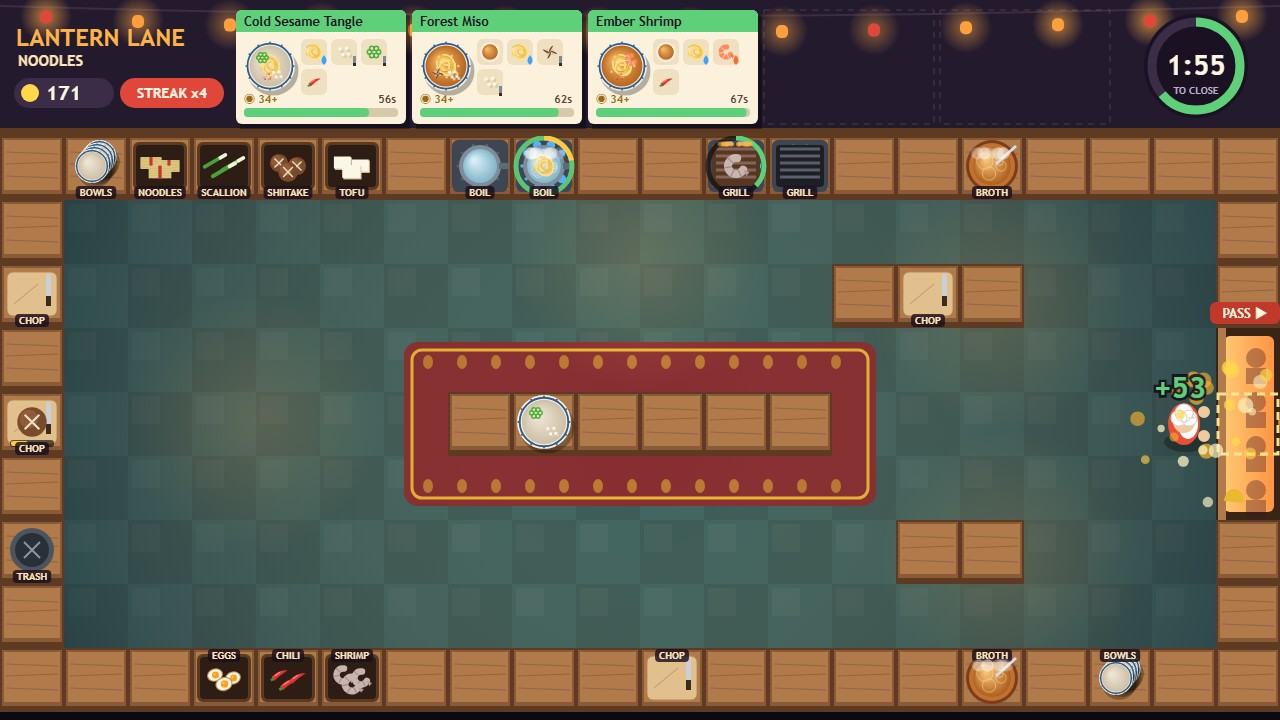
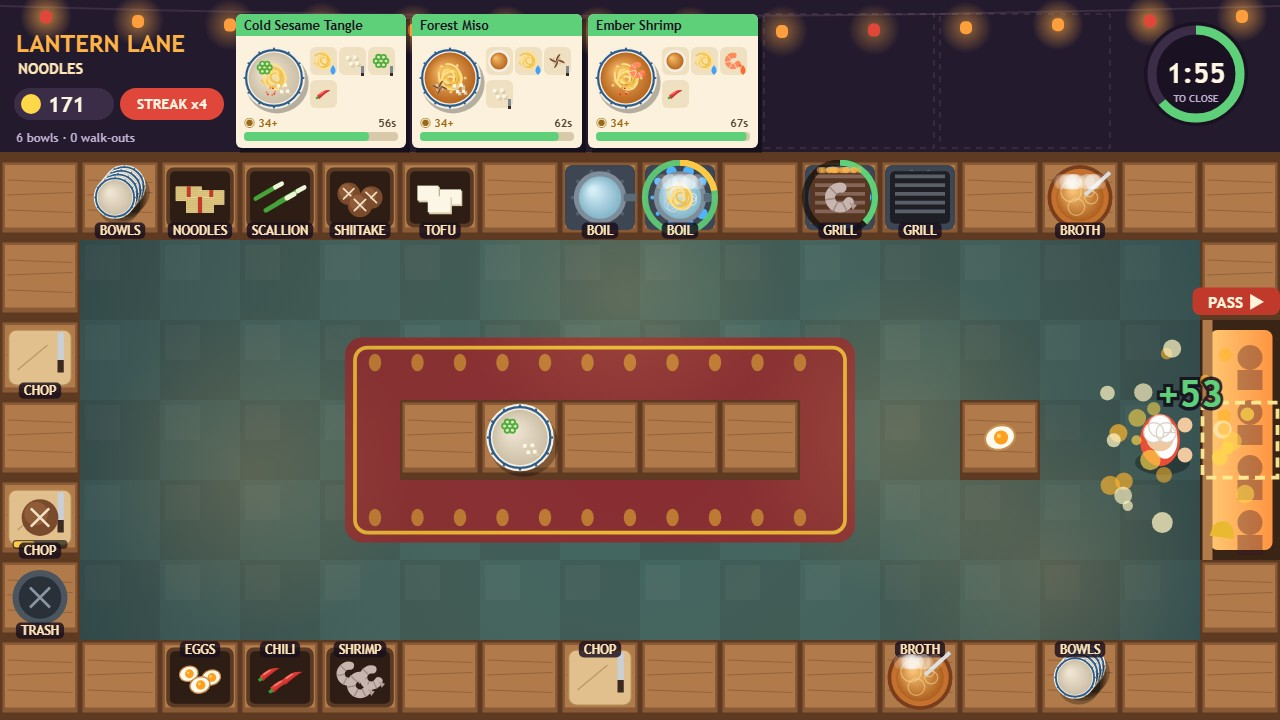
Bigger kitchen on screen (1.25x), taller order tickets, staged counters in the cover

diff --git a/game/src/hud.js b/game/src/hud.js
@@ -1,14 +1,14 @@
 // The order board and the shift clock: paper tickets on a rail, each with its bowl, its parts and
 // how they are prepped, and a patience bar; the coin purse, the streak and a ring clock that
 // reddens and ticks as closing time comes.
-import { COLORS, VIEW, GRID } from './config.js';
+import { COLORS, VIEW, STAGE } from './config.js';
 import { drawBowl, drawIngredientIcon } from './draw-food.js';
 import { INGREDIENTS, PREP_BOIL, PREP_CHOP, PREP_GRILL } from './recipes.js';
 import { isRush, payFor } from './orders.js';
 import { timeLeft } from './world.js';
 import { itemLabel } from './items.js';
 
-const TICKET = { x: 236, y: 10, w: 170, h: 114, gap: 6 };
+const TICKET = { x: 236, y: 14, w: 170, h: 134, gap: 6 };
 
 function roundRect(ctx, x, y, w, h, r, fill) {
   ctx.beginPath();
@@ -75,16 +75,16 @@ function drawTicket(ctx, world, order, x, y, time) {
   roundRect(ctx, x, y, TICKET.w, 22, 6, band);
   ctx.fillRect(x, y + 14, TICKET.w, 8);
   text(ctx, order.recipe.name, x + 8, y + 16, 13, '#1d1424', 800);
-  drawBowl(ctx, order.recipe.parts, x + 34, y + 56, 25);
+  drawBowl(ctx, order.recipe.parts, x + 38, y + 64, 31);
   const parts = order.recipe.parts;
   parts.forEach((id, i) => {
     const col = i % 3;
     const row = Math.floor(i / 3);
-    const ix = x + 78 + col * 30;
-    const iy = y + 42 + row * 30;
-    roundRect(ctx, ix - 13, iy - 13, 26, 26, 6, '#efe0c2');
-    drawIngredientIcon(ctx, id, ix, iy, 10);
-    prepMark(ctx, INGREDIENTS[id].prep, ix + 10, iy + 9);
+    const ix = x + 87 + col * 29;
+    const iy = y + 47 + row * 33;
+    roundRect(ctx, ix - 13, iy - 14, 27, 28, 6, '#efe0c2');
+    drawIngredientIcon(ctx, id, ix, iy, 11);
+    prepMark(ctx, INGREDIENTS[id].prep, ix + 10, iy + 10);
   });
   roundRect(ctx, x + 8, y + TICKET.h - 16, TICKET.w - 16, 9, 4, '#d8c9ab');
   roundRect(ctx, x + 8, y + TICKET.h - 16, (TICKET.w - 16) * frac, 9, 4, band);
@@ -97,7 +97,7 @@ function drawTicket(ctx, world, order, x, y, time) {
 function drawClock(ctx, world, time) {
   const left = timeLeft(world);
   const cx = 1196;
-  const cy = 66;
+  const cy = 74;
   const frac = left / world.length;
   const late = left <= 30;
   const pulse = late ? 1 + Math.max(0, Math.sin(time * 6.3)) * 0.06 : 1;
@@ -128,22 +128,23 @@ function drawClock(ctx, world, time) {
 /** The whole top band: lanterns, title, purse, tickets and clock. */
 export function drawHud(ctx, world, time) {
   ctx.fillStyle = COLORS.header;
-  ctx.fillRect(0, 0, VIEW.width, GRID.top);
+  ctx.fillRect(0, 0, VIEW.width, STAGE.top);
   ctx.fillStyle = '#5e3a22';
-  ctx.fillRect(0, GRID.top - 8, VIEW.width, 8);
+  ctx.fillRect(0, STAGE.top - 8, VIEW.width, 8);
   lanternString(ctx, time);
-  text(ctx, 'LANTERN LANE', 16, 46, 24, '#ffb347', 900);
-  text(ctx, 'NOODLES', 18, 66, 15, '#ffe6b8', 800);
-  roundRect(ctx, 14, 78, 100, 30, 15, '#3b2c47');
+  text(ctx, 'LANTERN LANE', 16, 52, 24, '#ffb347', 900);
+  text(ctx, 'NOODLES', 18, 74, 15, '#ffe6b8', 800);
+  roundRect(ctx, 14, 88, 100, 32, 16, '#3b2c47');
   ctx.fillStyle = '#ffd84a';
   ctx.beginPath();
-  ctx.arc(30, 93, 9, 0, Math.PI * 2);
+  ctx.arc(31, 104, 10, 0, Math.PI * 2);
   ctx.fill();
-  text(ctx, `${world.coins}`, 46, 100, 20, '#fff6e4', 900);
+  text(ctx, `${world.coins}`, 48, 112, 21, '#fff6e4', 900);
   if (world.combo > 1) {
-    roundRect(ctx, 120, 78, 104, 30, 15, '#e0473a');
-    text(ctx, `STREAK x${world.combo}`, 172, 98, 14, '#fff6e4', 900, 'center');
-  } else text(ctx, `${world.served} served`, 124, 98, 13, '#bfaecf', 700);
+    roundRect(ctx, 120, 88, 104, 32, 16, '#e0473a');
+    text(ctx, `STREAK x${world.combo}`, 172, 109, 14, '#fff6e4', 900, 'center');
+  } else text(ctx, `${world.served} served`, 124, 109, 13, '#bfaecf', 700);
+  text(ctx, `${world.served} bowls · ${world.missed} walk-outs`, 16, 142, 12, '#bfaecf', 700);
   for (let i = 0; i < 5; i += 1) {
     const x = TICKET.x + i * (TICKET.w + TICKET.gap);
     if (!world.orders[i]) {
@@ -157,20 +158,20 @@ export function drawHud(ctx, world, time) {
   }
   drawClock(ctx, world, time);
   if (isRush(world.elapsed)) {
-    roundRect(ctx, 1146, 116, 100, 18, 9, COLORS.bad);
-    text(ctx, '🔥 RUSH', 1196, 129, 12, '#fff', 900, 'center');
+    roundRect(ctx, 1146, 132, 100, 20, 10, COLORS.bad);
+    text(ctx, 'RUSH HOUR', 1196, 146, 12, '#fff', 900, 'center');
   }
 }
 
 /** A tag under the chef's feet naming what it carries, and a hint line along the bottom. */
 export function drawHoldingTag(ctx, world) {
   const hold = world.chef.hold;
-  ctx.font = '700 12px "Trebuchet MS", sans-serif';
-  const msg = hold ? `Holding: ${itemLabel(hold)}` : 'WASD move · E pick up / put down · SPACE chop · click a counter to walk & use';
-  const w = ctx.measureText(msg).width + 20;
-  const x = hold ? world.chef.x : 640;
-  const y = hold ? world.chef.y + 40 : GRID.top + 9 * 64 - 2;
   if (!hold) return;
+  ctx.font = '700 12px "Trebuchet MS", sans-serif';
+  const msg = `Holding: ${itemLabel(hold)}`;
+  const w = ctx.measureText(msg).width + 20;
+  const x = world.chef.x;
+  const y = world.chef.y + 40;
   roundRect(ctx, x - w / 2, y - 13, w, 19, 9, 'rgba(20,12,28,0.78)');
   ctx.fillStyle = '#ffe6b8';
   ctx.textAlign = 'center';

diff --git a/game/src/shots.js b/game/src/shots.js
@@ -59,29 +59,30 @@ function rushScene(world) {
   order(world, 'ember');
   wait(world, 24);
   order(world, 'moon');
-  use(world, 1, 0); use(world, 15, 0); use(world, 9, 4);
+  use(world, 1, 0); use(world, 13, 0); use(world, 6, 3);
   use(world, 2, 0); use(world, 7, 0);
-  use(world, 5, 8); use(world, 11, 0);
+  use(world, 4, 6); use(world, 10, 0);
   wait(world, 5.2);
-  use(world, 7, 0); use(world, 9, 4);
-  use(world, 11, 0); use(world, 9, 4);
+  use(world, 7, 0); use(world, 6, 3);
+  use(world, 10, 0); use(world, 6, 3);
   order(world, 'lantern');
-  use(world, 17, 8); use(world, 15, 8); use(world, 10, 4);
-  use(world, 3, 0); use(world, 0, 2); chopAll(world, 0, 2, 5); use(world, 0, 2); use(world, 10, 4);
+  use(world, 13, 6); use(world, 11, 6); use(world, 7, 3);
+  use(world, 3, 0); use(world, 0, 2); chopAll(world, 0, 2, 5); use(world, 0, 2); use(world, 7, 3);
   use(world, 2, 0); use(world, 7, 0);
   wait(world, 6);
-  use(world, 7, 0); use(world, 10, 4);
-  use(world, 5, 8); use(world, 12, 0);
+  use(world, 7, 0); use(world, 7, 3);
+  use(world, 4, 6); use(world, 11, 0);
   order(world, 'forest');
   wait(world, 5);
   use(world, 2, 0); use(world, 8, 0);
   use(world, 4, 0); use(world, 0, 4); chopAll(world, 0, 4, 3);
-  use(world, 5, 0); use(world, 10, 8); chopAll(world, 10, 8, 5); use(world, 10, 8); use(world, 11, 4);
-  use(world, 3, 8); use(world, 12, 4);
+  use(world, 5, 0); use(world, 7, 6); chopAll(world, 7, 6, 5); use(world, 7, 6); use(world, 8, 3);
+  use(world, 2, 6); use(world, 9, 3);
+  use(world, 13, 6); use(world, 12, 3);
   order(world, 'cold');
   wait(world, 3.2);
-  use(world, 4, 8);
-  standBy(world, 9, 4);
+  use(world, 3, 6);
+  standBy(world, 6, 3);
   world.chef.y += 6;
   world.chef.walk = 1.2;
 }
@@ -96,22 +97,23 @@ function serveScene(world) {
   order(world, 'cold');
   wait(world, 6);
   order(world, 'forest');
-  use(world, 1, 0); use(world, 8, 4);
+  use(world, 1, 0); use(world, 6, 3);
   use(world, 2, 0); use(world, 7, 0);
-  use(world, 5, 0); use(world, 14, 2); chopAll(world, 14, 2, 5); use(world, 14, 2); use(world, 8, 4);
-  use(world, 3, 0); use(world, 0, 2); chopAll(world, 0, 2, 5); use(world, 0, 2); use(world, 8, 4);
-  use(world, 1, 0); use(world, 15, 0); use(world, 10, 4);
+  use(world, 5, 0); use(world, 7, 6); chopAll(world, 7, 6, 5); use(world, 7, 6); use(world, 6, 3);
+  use(world, 3, 0); use(world, 0, 2); chopAll(world, 0, 2, 5); use(world, 0, 2); use(world, 6, 3);
+  use(world, 1, 0); use(world, 13, 0); use(world, 8, 3);
   use(world, 2, 0); use(world, 8, 0);
   wait(world, 5.2);
-  use(world, 7, 0); use(world, 10, 4);
-  use(world, 3, 0); use(world, 0, 2); chopAll(world, 0, 2, 5); use(world, 0, 2); use(world, 10, 4);
+  use(world, 7, 0); use(world, 8, 3);
+  use(world, 3, 0); use(world, 0, 2); chopAll(world, 0, 2, 5); use(world, 0, 2); use(world, 8, 3);
   use(world, 4, 0); use(world, 0, 4); chopAll(world, 0, 4, 2);
-  use(world, 5, 8); use(world, 11, 0);
+  use(world, 4, 6); use(world, 10, 0);
+  use(world, 2, 6); use(world, 12, 3);
   order(world, 'ember');
   wait(world, 1.5);
-  use(world, 10, 4);
+  use(world, 8, 3);
   world.events.length = 0;
-  use(world, 19, 4);
+  use(world, 15, 3);
 }
 
 /** A whole shift played out to the shutters for the tally screen. */
@@ -122,7 +124,7 @@ function endScene(world) {
     order(world, id);
     wait(world, 6);
     world.chef.hold = { kind: 'bowl', parts: [...recipeById(id).parts] };
-    use(world, 19, 4);
+    use(world, 15, 3);
   }
   const earned = world.coins;
   world.orders = [];

diff --git a/game/src/draw-kitchen.js b/game/src/draw-kitchen.js
@@ -37,15 +37,15 @@ export function drawFloor(ctx, time) {
       ctx.fillRect(x + 4, y + 4, TILE / 2 - 4, TILE / 2 - 4);
     }
   }
-  drawRug(ctx, 6 * TILE + 20, GRID.top + 3 * TILE + 14, 8 * TILE - 40, 3 * TILE - 28);
-  for (const [px, py] of [[250, 420], [640, 260], [1010, 560], [1000, 300]]) {
+  drawRug(ctx, 4 * TILE + 20, GRID.top + 2 * TILE + 14, 7 * TILE - 40, 3 * TILE - 28);
+  for (const [px, py] of [[200, 250], [500, 110], [840, 330], [720, 220]]) {
     const pool = ctx.createRadialGradient(px, py, 4, px, py, 130);
     pool.addColorStop(0, 'rgba(255,190,110,0.16)');
     pool.addColorStop(1, 'rgba(255,190,110,0)');
     ctx.fillStyle = pool;
     ctx.fillRect(px - 130, py - 130, 260, 260);
   }
-  const glow = ctx.createRadialGradient(640, GRID.top + 300, 60, 640, GRID.top + 300, 700);
+  const glow = ctx.createRadialGradient(512, GRID.top + 224, 60, 512, GRID.top + 224, 600);
   glow.addColorStop(0, `rgba(255,170,80,${0.1 + Math.sin(time * 1.3) * 0.015})`);
   glow.addColorStop(1, 'rgba(10,5,20,0.35)');
   ctx.fillStyle = glow;
@@ -229,8 +229,8 @@ function drawTrash(ctx, cx, cy) {
 
 /** The serving window on the right wall: a lit hatch with a bell and the night street beyond. */
 export function drawHatch(ctx, time) {
-  const x = 19 * TILE;
-  const y = GRID.top + 3 * TILE;
+  const x = (GRID.cols - 1) * TILE;
+  const y = GRID.top + 2 * TILE;
   const h = TILE * 3;
   rect(ctx, x, y, TILE, h, '#3a2416');
   const street = ctx.createLinearGradient(x, y, x + TILE, y);

diff --git a/game/src/render.js b/game/src/render.js
@@ -1,5 +1,5 @@
 // Draws one frame: the stall, the chef, the effects, the order board and whichever screen is up.
-import { VIEW } from './config.js';
+import { VIEW, STAGE } from './config.js';
 import { drawFloor, drawStations, drawChef } from './draw-kitchen.js';
 import { drawHud, drawHoldingTag } from './hud.js';
 import { drawFx } from './fx.js';
@@ -19,6 +19,11 @@ export function fitView(canvas, view) {
   view.scale = Math.min(w / VIEW.width, h / VIEW.height);
   view.offsetX = (w - VIEW.width * view.scale) / 2;
   view.offsetY = (h - VIEW.height * view.scale) / 2;
+}
+
+/** A point on the 1280x720 stage to kitchen world coordinates. */
+export function screenToWorld(x, y) {
+  return { x: x / STAGE.scale, y: (y - STAGE.top) / STAGE.scale };
 }
 
 function drawBanner(ctx, banner) {
@@ -51,12 +56,16 @@ export function renderFrame(ctx, canvas, view, world, fx, time, paused) {
   ctx.beginPath();
   ctx.rect(0, 0, VIEW.width, VIEW.height);
   ctx.clip();
+  ctx.save();
+  ctx.translate(0, STAGE.top);
+  ctx.scale(STAGE.scale, STAGE.scale);
   drawFloor(ctx, time);
   const target = world.screen === SCREEN_PLAY ? stationInReach(world) : null;
   drawStations(ctx, world, time, target);
   drawChef(ctx, world.chef, time);
   drawHoldingTag(ctx, world);
   drawFx(ctx, fx);
+  ctx.restore();
   drawHud(ctx, world, time);
   if (fx.flash > 0) {
     ctx.fillStyle = `rgba(255,240,180,${fx.flash * 0.5})`;

diff --git a/game/src/layout.js b/game/src/layout.js
@@ -13,26 +13,25 @@ const PLAN = [
   [5, 0, 'bin', 'tofu'],
   [7, 0, 'pot'],
   [8, 0, 'pot'],
+  [10, 0, 'grill'],
   [11, 0, 'grill'],
-  [12, 0, 'grill'],
-  [15, 0, 'broth'],
+  [13, 0, 'broth'],
   [0, 2, 'board'],
   [0, 4, 'board'],
-  [0, 6, 'trash'],
-  [3, 8, 'bin', 'egg'],
-  [4, 8, 'bin', 'chili'],
-  [5, 8, 'bin', 'shrimp'],
-  [10, 8, 'board'],
-  [14, 2, 'board'],
-  [15, 8, 'broth'],
-  [17, 8, 'bowls'],
-  [19, 3, 'hatch'],
-  [19, 4, 'hatch'],
-  [19, 5, 'hatch'],
+  [0, 5, 'trash'],
+  [2, 6, 'bin', 'egg'],
+  [3, 6, 'bin', 'chili'],
+  [4, 6, 'bin', 'shrimp'],
+  [7, 6, 'board'],
+  [11, 6, 'broth'],
+  [13, 6, 'bowls'],
+  [15, 2, 'hatch'],
+  [15, 3, 'hatch'],
+  [15, 4, 'hatch'],
 ];
 
-/** The plating island in the middle of the floor and the prep island nearer the pass: counters you walk around. */
-export const ISLANDS = [{ row: 4, from: 7, to: 12 }, { row: 2, from: 13, to: 15 }, { row: 6, from: 14, to: 15 }];
+/** The plating island in the middle of the floor and a staging block nearer the pass: counters you walk around. */
+export const ISLANDS = [{ row: 3, from: 5, to: 9 }, { row: 3, from: 12, to: 12 }];
 
 function isBorder(col, row) {
   return row === 0 || row === GRID.rows - 1 || col === 0 || col === GRID.cols - 1;

diff --git a/game/src/main.js b/game/src/main.js
@@ -4,7 +4,7 @@
 import { createInput } from './input.js';
 import { createWorld, startShift, stepWorld, timeLeft, SCREEN_END, SCREEN_PLAY, SCREEN_TITLE } from './world.js';
 import { createFx, fxForEvent, tickFx, ambientFx } from './fx.js';
-import { renderFrame, fitView } from './render.js';
+import { renderFrame, fitView, screenToWorld } from './render.js';
 import { playEvent, sfx, toggleMute } from './audio.js';
 import { buildShot } from './shots.js';
 import { tileCenter, tileOf } from './layout.js';
@@ -65,7 +65,8 @@ function runGame() {
       if (controls.pause) paused = !paused;
       if (!paused) {
         const click = controls.clicks.length ? controls.clicks[controls.clicks.length - 1] : null;
-        const tile = click ? tileOf(click.x, click.y) : null;
+        const spot = click ? screenToWorld(click.x, click.y) : null;
+        const tile = spot && spot.y >= 0 ? tileOf(spot.x, spot.y) : null;
         stepWorld(world, dt, { moveX: controls.moveX, moveY: controls.moveY, use: controls.use, chop: controls.chop, click: tile });
         const left = Math.ceil(timeLeft(world));
         if (left <= 10 && left !== lastTick && world.screen === SCREEN_PLAY) {

diff --git a/game/src/config.js b/game/src/config.js
@@ -2,9 +2,12 @@
 
 export const VIEW = { width: 1280, height: 720 };
 
-/** The kitchen grid: 20 x 9 tiles of 64 px under the order board. */
+/** The kitchen grid in world units: 16 x 7 tiles of 64. */
 export const TILE = 64;
-export const GRID = { cols: 20, rows: 9, top: 136 };
+export const GRID = { cols: 16, rows: 7, top: 0 };
+
+/** Where the kitchen sits on screen: under a 160 px order board, drawn 1.25x so food reads at a glance. */
+export const STAGE = { top: 160, scale: 1.25 };
 
 export const CHEF = {
   speed: 300,

diff --git a/game/src/fx.js b/game/src/fx.js
@@ -13,7 +13,7 @@ const POP_COLOR = {
 
 export function popup(fx, x, y, text, color = '#fff', size = 18) {
   if (!text) return;
-  fx.popups.push({ x: Math.min(1180, Math.max(90, x)), y: Math.max(GRID.top + 40, y), text, color, size, life: 1.1, age: 0 });
+  fx.popups.push({ x: Math.min(GRID.cols * 64 - 70, Math.max(70, x)), y: Math.max(GRID.top + 30, y), text, color, size, life: 1.1, age: 0 });
 }
 
 function burst(fx, x, y, count, colors, speed, gravity, size) {

diff --git a/game/src/world.js b/game/src/world.js
@@ -23,7 +23,7 @@ export function createWorld(seed = 1) {
     length: SHIFT_SECONDS,
     stations,
     stationMap: byKey,
-    chef: makeChef(9, 6),
+    chef: makeChef(7, 5),
     orders: [],
     nextOrderIn: ORDERS.firstAt,
     coins: 0,
